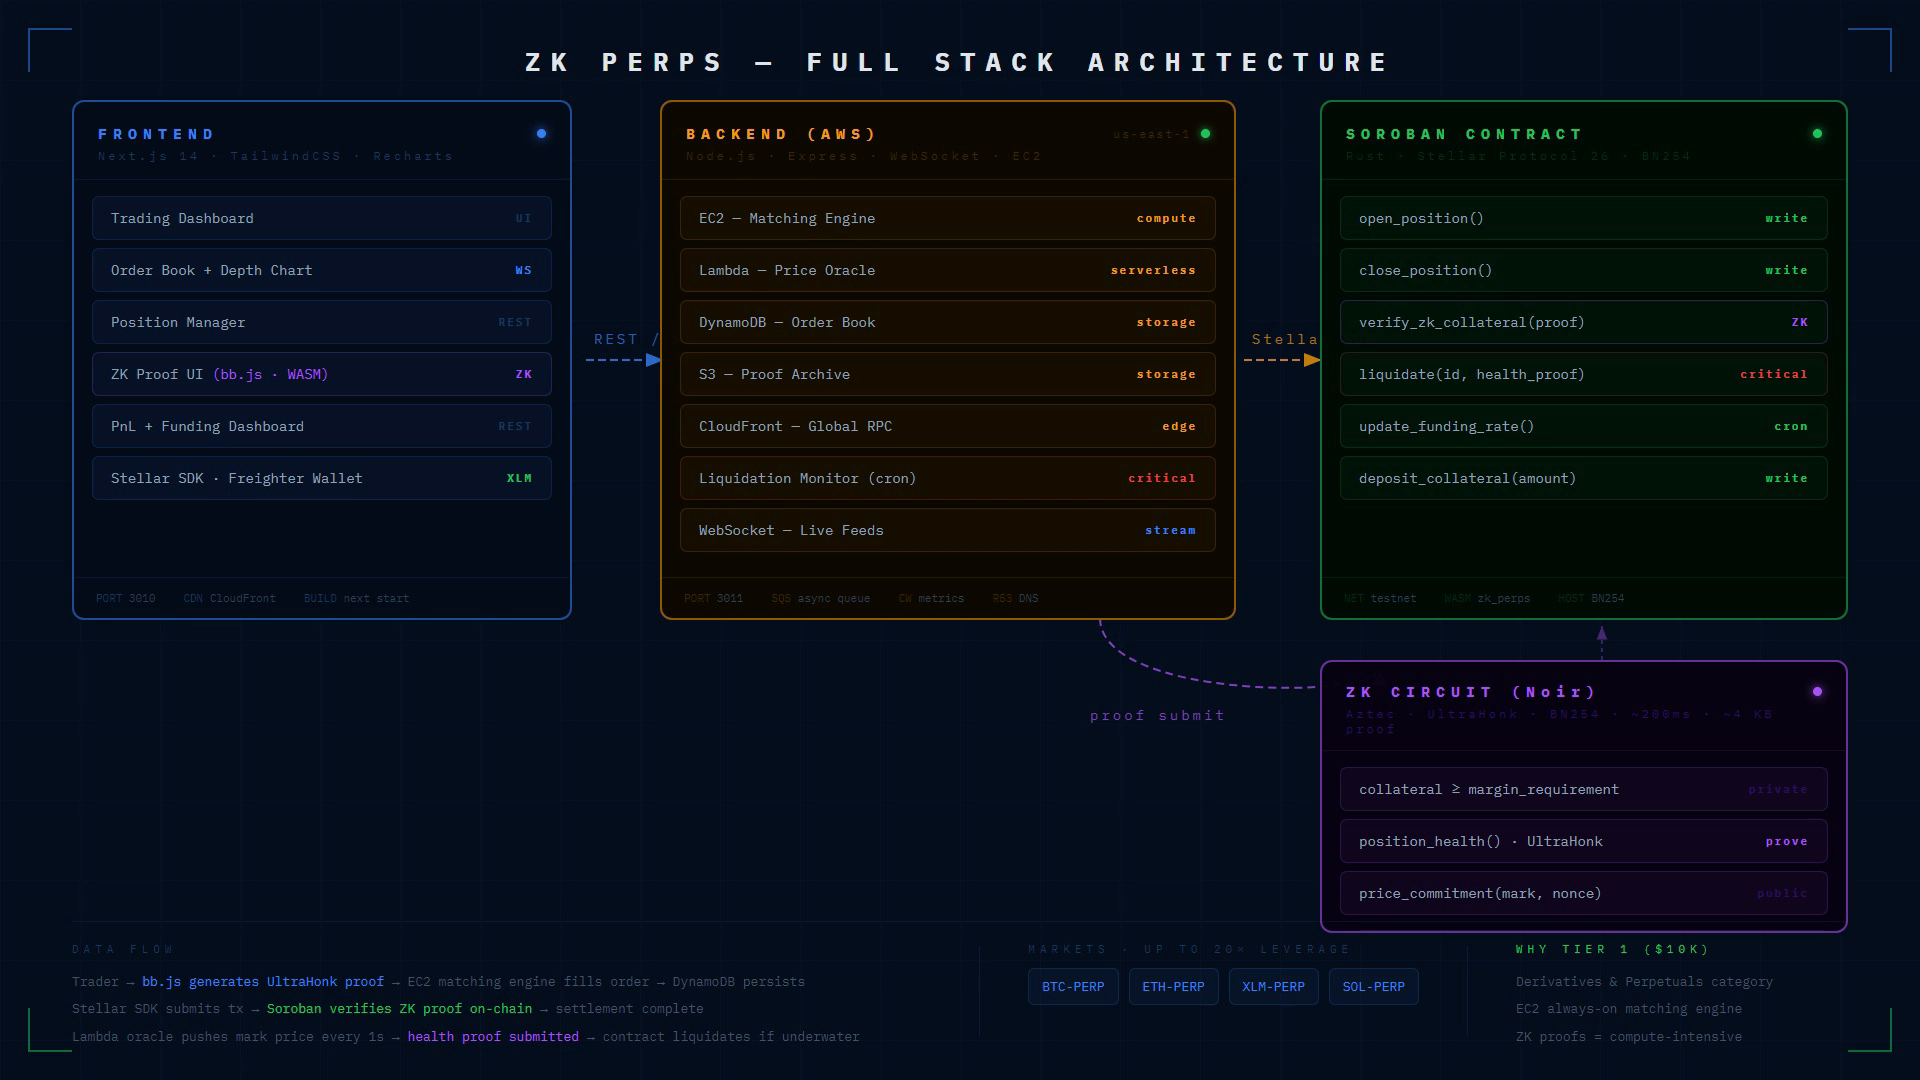
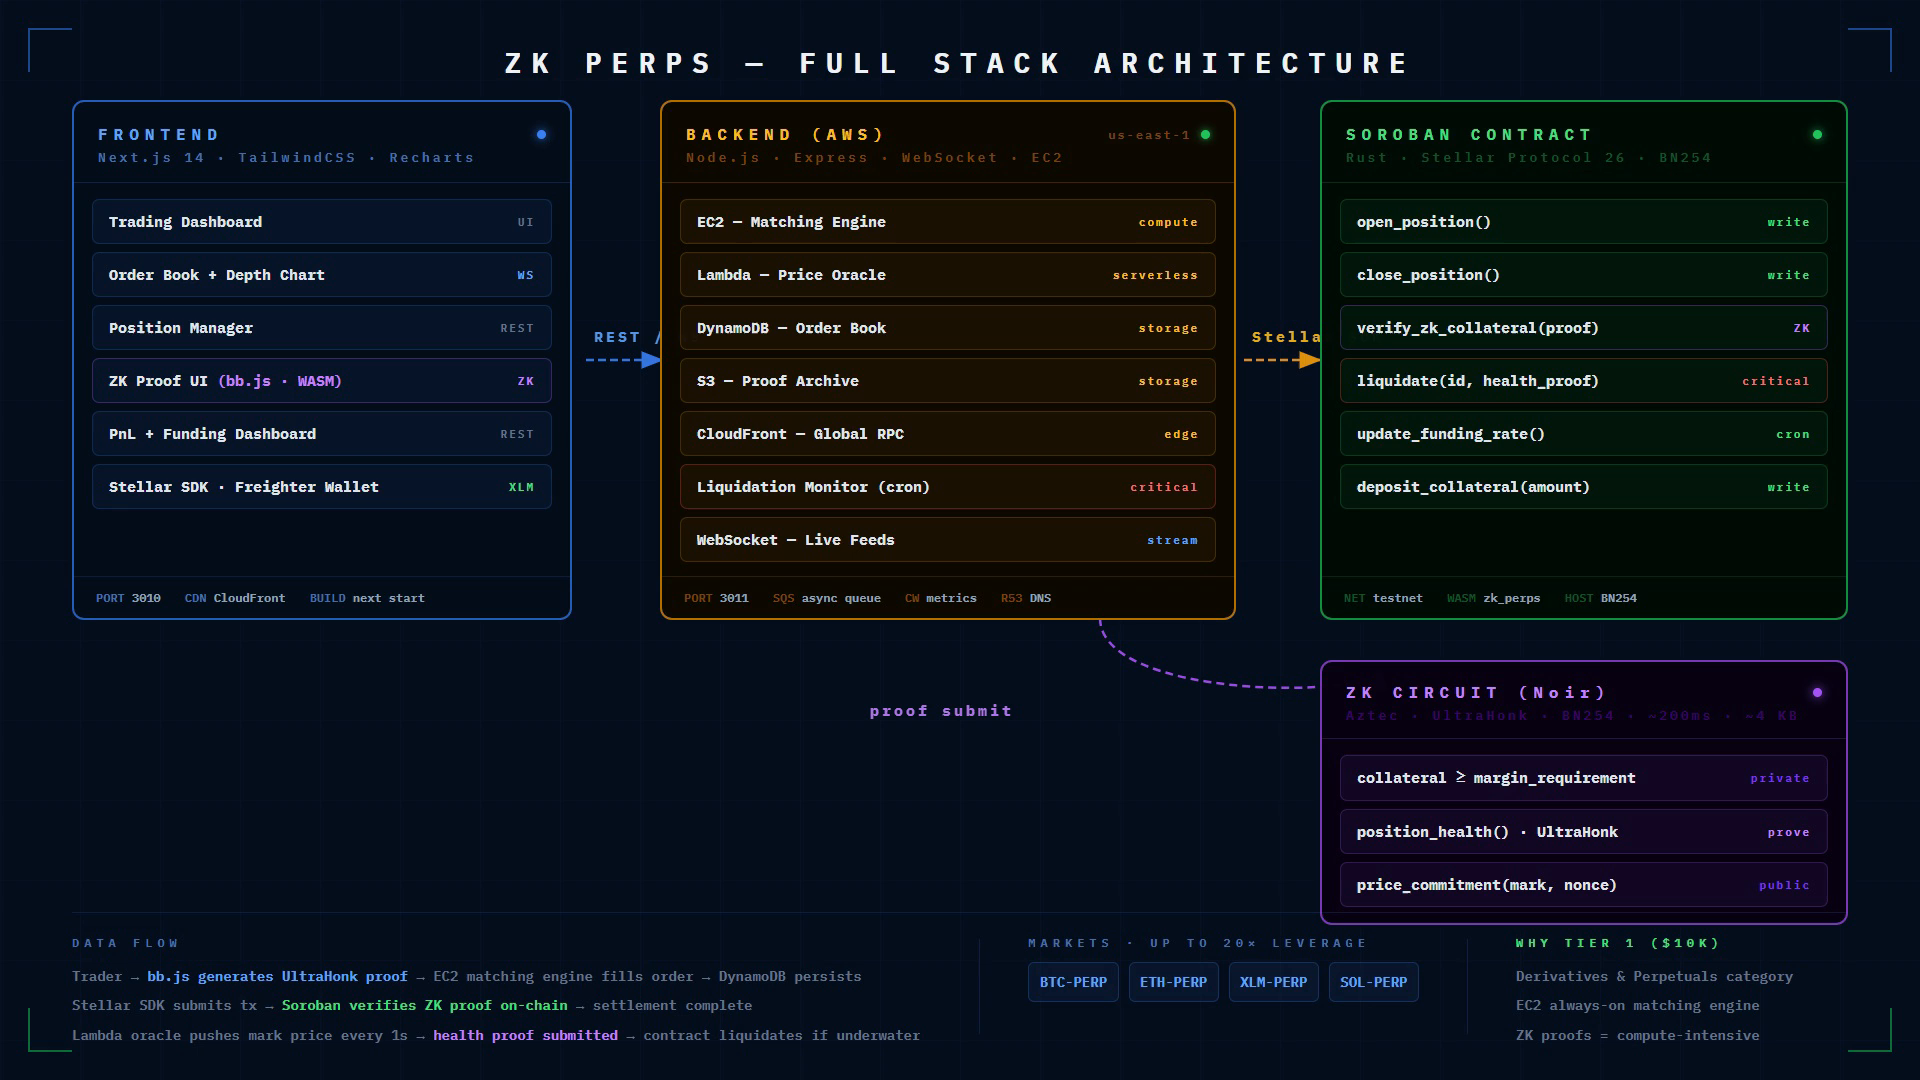
Improve architecture diagram text contrast and weight

diff --git a/docs/index.html b/docs/index.html
@@ -6,8 +6,6 @@
 <style>
 *{margin:0;padding:0;box-sizing:border-box}
 html,body{width:1920px;height:1080px;overflow:hidden;background:#07101e;font-family:'IBM Plex Mono',monospace}
-.row{display:flex;align-items:center;justify-content:space-between;padding:12px 18px;border-radius:7px;margin-bottom:8px}
-.tag{font-size:11px;letter-spacing:2px;font-weight:700}
 </style>
 </head>
 <body>
@@ -26,9 +24,9 @@ html,body{width:1920px;height:1080px;overflow:hidden;background:#07101e;font-fam
 <div style="position:absolute;bottom:28px;right:28px;width:44px;height:44px;border-bottom:2px solid rgba(34,197,94,0.5);border-right:2px solid rgba(34,197,94,0.5)"></div>
 
 <!-- title -->
-<div style="position:absolute;top:44px;left:0;right:0;text-align:center;font-size:26px;font-weight:700;color:#e2e8f0;letter-spacing:10px">ZK PERPS — FULL STACK ARCHITECTURE</div>
+<div style="position:absolute;top:44px;left:0;right:0;text-align:center;font-size:28px;font-weight:700;color:#f1f5f9;letter-spacing:10px">ZK PERPS — FULL STACK ARCHITECTURE</div>
 
-<!-- ─── SVG ARROWS ─── -->
+<!-- SVG ARROWS -->
 <svg style="position:absolute;top:0;left:0;width:1920px;height:1080px;pointer-events:none" viewBox="0 0 1920 1080">
   <defs>
     <marker id="mb" markerWidth="9" markerHeight="7" refX="9" refY="3.5" orient="auto"><polygon points="0 0,9 3.5,0 7" fill="#3b82f6"/></marker>
@@ -36,223 +34,213 @@ html,body{width:1920px;height:1080px;overflow:hidden;background:#07101e;font-fam
     <marker id="mp" markerWidth="9" markerHeight="7" refX="9" refY="3.5" orient="auto"><polygon points="0 0,9 3.5,0 7" fill="#a855f7"/></marker>
   </defs>
   <!-- FE → BE -->
-  <line x1="586" y1="360" x2="664" y2="360" stroke="#3b82f6" stroke-width="2" marker-end="url(#mb)" stroke-dasharray="8,4" opacity="0.8"/>
-  <text x="594" y="344" font-family="IBM Plex Mono" font-size="14" fill="#3b82f6" opacity="0.7" letter-spacing="3">REST / WS</text>
+  <line x1="586" y1="360" x2="664" y2="360" stroke="#3b82f6" stroke-width="2.5" marker-end="url(#mb)" stroke-dasharray="8,4" opacity="0.9"/>
+  <text x="594" y="342" font-family="IBM Plex Mono" font-size="15" font-weight="700" fill="#60a5fa" opacity="0.9" letter-spacing="3">REST / WS</text>
   <!-- BE → SC -->
-  <line x1="1244" y1="360" x2="1322" y2="360" stroke="#f59e0b" stroke-width="2" marker-end="url(#mo)" stroke-dasharray="8,4" opacity="0.8"/>
-  <text x="1252" y="344" font-family="IBM Plex Mono" font-size="14" fill="#f59e0b" opacity="0.7" letter-spacing="3">Stellar SDK</text>
-  <!-- BE → ZK diagonal -->
-  <path d="M 1100 618 C 1100 700, 1380 700, 1380 668" stroke="#a855f7" stroke-width="2" fill="none" marker-end="url(#mp)" stroke-dasharray="8,5" opacity="0.75"/>
-  <text x="1090" y="720" font-family="IBM Plex Mono" font-size="14" fill="#a855f7" opacity="0.75" letter-spacing="3">proof submit</text>
-  <!-- ZK → SC upward connection line -->
-  <line x1="1602" y1="660" x2="1602" y2="626" stroke="#a855f7" stroke-width="1.5" marker-end="url(#mp)" stroke-dasharray="4,4" opacity="0.4"/>
+  <line x1="1244" y1="360" x2="1322" y2="360" stroke="#f59e0b" stroke-width="2.5" marker-end="url(#mo)" stroke-dasharray="8,4" opacity="0.9"/>
+  <text x="1252" y="342" font-family="IBM Plex Mono" font-size="15" font-weight="700" fill="#fbbf24" opacity="0.9" letter-spacing="3">Stellar SDK</text>
+  <!-- BE → ZK -->
+  <path d="M 1100 618 C 1100 700, 1380 700, 1380 668" stroke="#a855f7" stroke-width="2.5" fill="none" marker-end="url(#mp)" stroke-dasharray="8,5" opacity="0.9"/>
+  <text x="870" y="716" font-family="IBM Plex Mono" font-size="15" font-weight="700" fill="#c084fc" opacity="0.9" letter-spacing="3">proof submit</text>
 </svg>
 
-<!-- ─── FRONTEND BOX — top:100 height:520 ─── -->
+<!-- ─── FRONTEND BOX ─── -->
 <div style="position:absolute;top:100px;left:72px;width:500px;height:520px;
-  border:2px solid rgba(59,130,246,0.55);border-radius:12px;
-  background:rgba(6,14,28,0.96)">
-  <!-- header -->
-  <div style="padding:22px 24px 16px;border-bottom:1px solid rgba(59,130,246,0.12)">
+  border:2px solid rgba(59,130,246,0.7);border-radius:12px;
+  background:rgba(6,14,28,0.97)">
+  <div style="padding:22px 24px 16px;border-bottom:1px solid rgba(59,130,246,0.2)">
     <div style="display:flex;align-items:center;justify-content:space-between">
-      <span style="font-size:15px;font-weight:700;color:#3b82f6;letter-spacing:6px">FRONTEND</span>
+      <span style="font-size:16px;font-weight:700;color:#60a5fa;letter-spacing:6px">FRONTEND</span>
       <span style="width:9px;height:9px;border-radius:50%;background:#3b82f6;box-shadow:0 0 10px #3b82f6;display:block"></span>
     </div>
-    <div style="font-size:12px;color:#1e3a5f;letter-spacing:3px;margin-top:5px">Next.js 14 · TailwindCSS · Recharts</div>
+    <div style="font-size:13px;color:#4a6fa5;letter-spacing:3px;margin-top:5px;font-weight:700">Next.js 14 · TailwindCSS · Recharts</div>
   </div>
-  <!-- rows -->
   <div style="padding:16px 18px">
-    <div class="row" style="background:rgba(59,130,246,0.05);border:1px solid rgba(59,130,246,0.15)">
-      <span style="font-size:14px;color:#94a3b8">Trading Dashboard</span>
-      <span class="tag" style="color:#1e3a5f">UI</span>
+    <div style="display:flex;align-items:center;justify-content:space-between;padding:12px 16px;background:rgba(59,130,246,0.07);border:1px solid rgba(59,130,246,0.2);border-radius:7px;margin-bottom:8px">
+      <span style="font-size:15px;font-weight:700;color:#e2e8f0">Trading Dashboard</span>
+      <span style="font-size:11px;font-weight:700;letter-spacing:2px;color:#64748b">UI</span>
     </div>
-    <div class="row" style="background:rgba(59,130,246,0.05);border:1px solid rgba(59,130,246,0.15)">
-      <span style="font-size:14px;color:#94a3b8">Order Book + Depth Chart</span>
-      <span class="tag" style="color:#3b82f6">WS</span>
+    <div style="display:flex;align-items:center;justify-content:space-between;padding:12px 16px;background:rgba(59,130,246,0.07);border:1px solid rgba(59,130,246,0.2);border-radius:7px;margin-bottom:8px">
+      <span style="font-size:15px;font-weight:700;color:#e2e8f0">Order Book + Depth Chart</span>
+      <span style="font-size:11px;font-weight:700;letter-spacing:2px;color:#60a5fa">WS</span>
     </div>
-    <div class="row" style="background:rgba(59,130,246,0.05);border:1px solid rgba(59,130,246,0.15)">
-      <span style="font-size:14px;color:#94a3b8">Position Manager</span>
-      <span class="tag" style="color:#1e3a5f">REST</span>
+    <div style="display:flex;align-items:center;justify-content:space-between;padding:12px 16px;background:rgba(59,130,246,0.07);border:1px solid rgba(59,130,246,0.2);border-radius:7px;margin-bottom:8px">
+      <span style="font-size:15px;font-weight:700;color:#e2e8f0">Position Manager</span>
+      <span style="font-size:11px;font-weight:700;letter-spacing:2px;color:#64748b">REST</span>
     </div>
-    <div class="row" style="background:rgba(59,130,246,0.05);border:1px solid rgba(168,85,247,0.22)">
-      <span style="font-size:14px;color:#94a3b8">ZK Proof UI <span style="color:#a855f7">(bb.js · WASM)</span></span>
-      <span class="tag" style="color:#a855f7">ZK</span>
+    <div style="display:flex;align-items:center;justify-content:space-between;padding:12px 16px;background:rgba(59,130,246,0.07);border:1px solid rgba(168,85,247,0.3);border-radius:7px;margin-bottom:8px">
+      <span style="font-size:15px;font-weight:700;color:#e2e8f0">ZK Proof UI <span style="color:#c084fc">(bb.js · WASM)</span></span>
+      <span style="font-size:11px;font-weight:700;letter-spacing:2px;color:#c084fc">ZK</span>
     </div>
-    <div class="row" style="background:rgba(59,130,246,0.05);border:1px solid rgba(59,130,246,0.15)">
-      <span style="font-size:14px;color:#94a3b8">PnL + Funding Dashboard</span>
-      <span class="tag" style="color:#1e3a5f">REST</span>
+    <div style="display:flex;align-items:center;justify-content:space-between;padding:12px 16px;background:rgba(59,130,246,0.07);border:1px solid rgba(59,130,246,0.2);border-radius:7px;margin-bottom:8px">
+      <span style="font-size:15px;font-weight:700;color:#e2e8f0">PnL + Funding Dashboard</span>
+      <span style="font-size:11px;font-weight:700;letter-spacing:2px;color:#64748b">REST</span>
     </div>
-    <div class="row" style="background:rgba(59,130,246,0.05);border:1px solid rgba(59,130,246,0.15)">
-      <span style="font-size:14px;color:#94a3b8">Stellar SDK · Freighter Wallet</span>
-      <span class="tag" style="color:#22c55e">XLM</span>
+    <div style="display:flex;align-items:center;justify-content:space-between;padding:12px 16px;background:rgba(59,130,246,0.07);border:1px solid rgba(59,130,246,0.2);border-radius:7px">
+      <span style="font-size:15px;font-weight:700;color:#e2e8f0">Stellar SDK · Freighter Wallet</span>
+      <span style="font-size:11px;font-weight:700;letter-spacing:2px;color:#4ade80">XLM</span>
     </div>
   </div>
-  <!-- footer -->
-  <div style="position:absolute;bottom:0;left:0;right:0;padding:13px 22px;border-top:1px solid rgba(59,130,246,0.1);border-radius:0 0 10px 10px;display:flex;gap:28px">
-    <span style="font-size:11px;color:#1e3a5f">PORT <span style="color:#334155">3010</span></span>
-    <span style="font-size:11px;color:#1e3a5f">CDN <span style="color:#334155">CloudFront</span></span>
-    <span style="font-size:11px;color:#1e3a5f">BUILD <span style="color:#334155">next start</span></span>
+  <div style="position:absolute;bottom:0;left:0;right:0;padding:13px 22px;border-top:1px solid rgba(59,130,246,0.15);border-radius:0 0 10px 10px;display:flex;gap:24px">
+    <span style="font-size:12px;font-weight:700;color:#4a6fa5">PORT <span style="color:#94a3b8">3010</span></span>
+    <span style="font-size:12px;font-weight:700;color:#4a6fa5">CDN <span style="color:#94a3b8">CloudFront</span></span>
+    <span style="font-size:12px;font-weight:700;color:#4a6fa5">BUILD <span style="color:#94a3b8">next start</span></span>
   </div>
 </div>
 
-<!-- ─── BACKEND (AWS) BOX — top:100 height:520 ─── -->
+<!-- ─── BACKEND (AWS) BOX ─── -->
 <div style="position:absolute;top:100px;left:660px;width:576px;height:520px;
-  border:2px solid rgba(245,158,11,0.55);border-radius:12px;
-  background:rgba(16,10,2,0.96)">
-  <div style="padding:22px 24px 16px;border-bottom:1px solid rgba(245,158,11,0.12)">
+  border:2px solid rgba(245,158,11,0.7);border-radius:12px;
+  background:rgba(16,10,2,0.97)">
+  <div style="padding:22px 24px 16px;border-bottom:1px solid rgba(245,158,11,0.2)">
     <div style="display:flex;align-items:center;justify-content:space-between">
-      <span style="font-size:15px;font-weight:700;color:#f59e0b;letter-spacing:6px">BACKEND (AWS)</span>
+      <span style="font-size:16px;font-weight:700;color:#fbbf24;letter-spacing:6px">BACKEND (AWS)</span>
       <div style="display:flex;align-items:center;gap:10px">
-        <span style="font-size:11px;color:#3d2c00;letter-spacing:2px">us-east-1</span>
+        <span style="font-size:12px;font-weight:700;color:#78450a;letter-spacing:2px">us-east-1</span>
         <span style="width:9px;height:9px;border-radius:50%;background:#22c55e;box-shadow:0 0 8px #22c55e;display:block"></span>
       </div>
     </div>
-    <div style="font-size:12px;color:#3d2c00;letter-spacing:3px;margin-top:5px">Node.js · Express · WebSocket · EC2</div>
+    <div style="font-size:13px;font-weight:700;color:#78450a;letter-spacing:3px;margin-top:5px">Node.js · Express · WebSocket · EC2</div>
   </div>
   <div style="padding:16px 18px">
-    <div class="row" style="background:rgba(245,158,11,0.04);border:1px solid rgba(245,158,11,0.15)">
-      <span style="font-size:14px;color:#94a3b8">EC2 — Matching Engine</span>
-      <span class="tag" style="color:#f59e0b">compute</span>
+    <div style="display:flex;align-items:center;justify-content:space-between;padding:12px 16px;background:rgba(245,158,11,0.06);border:1px solid rgba(245,158,11,0.2);border-radius:7px;margin-bottom:8px">
+      <span style="font-size:15px;font-weight:700;color:#e2e8f0">EC2 — Matching Engine</span>
+      <span style="font-size:11px;font-weight:700;letter-spacing:2px;color:#fbbf24">compute</span>
     </div>
-    <div class="row" style="background:rgba(245,158,11,0.04);border:1px solid rgba(245,158,11,0.15)">
-      <span style="font-size:14px;color:#94a3b8">Lambda — Price Oracle</span>
-      <span class="tag" style="color:#f59e0b">serverless</span>
+    <div style="display:flex;align-items:center;justify-content:space-between;padding:12px 16px;background:rgba(245,158,11,0.06);border:1px solid rgba(245,158,11,0.2);border-radius:7px;margin-bottom:8px">
+      <span style="font-size:15px;font-weight:700;color:#e2e8f0">Lambda — Price Oracle</span>
+      <span style="font-size:11px;font-weight:700;letter-spacing:2px;color:#fbbf24">serverless</span>
     </div>
-    <div class="row" style="background:rgba(245,158,11,0.04);border:1px solid rgba(245,158,11,0.15)">
-      <span style="font-size:14px;color:#94a3b8">DynamoDB — Order Book</span>
-      <span class="tag" style="color:#f59e0b">storage</span>
+    <div style="display:flex;align-items:center;justify-content:space-between;padding:12px 16px;background:rgba(245,158,11,0.06);border:1px solid rgba(245,158,11,0.2);border-radius:7px;margin-bottom:8px">
+      <span style="font-size:15px;font-weight:700;color:#e2e8f0">DynamoDB — Order Book</span>
+      <span style="font-size:11px;font-weight:700;letter-spacing:2px;color:#fbbf24">storage</span>
     </div>
-    <div class="row" style="background:rgba(245,158,11,0.04);border:1px solid rgba(245,158,11,0.15)">
-      <span style="font-size:14px;color:#94a3b8">S3 — Proof Archive</span>
-      <span class="tag" style="color:#f59e0b">storage</span>
+    <div style="display:flex;align-items:center;justify-content:space-between;padding:12px 16px;background:rgba(245,158,11,0.06);border:1px solid rgba(245,158,11,0.2);border-radius:7px;margin-bottom:8px">
+      <span style="font-size:15px;font-weight:700;color:#e2e8f0">S3 — Proof Archive</span>
+      <span style="font-size:11px;font-weight:700;letter-spacing:2px;color:#fbbf24">storage</span>
     </div>
-    <div class="row" style="background:rgba(245,158,11,0.04);border:1px solid rgba(245,158,11,0.15)">
-      <span style="font-size:14px;color:#94a3b8">CloudFront — Global RPC</span>
-      <span class="tag" style="color:#f59e0b">edge</span>
+    <div style="display:flex;align-items:center;justify-content:space-between;padding:12px 16px;background:rgba(245,158,11,0.06);border:1px solid rgba(245,158,11,0.2);border-radius:7px;margin-bottom:8px">
+      <span style="font-size:15px;font-weight:700;color:#e2e8f0">CloudFront — Global RPC</span>
+      <span style="font-size:11px;font-weight:700;letter-spacing:2px;color:#fbbf24">edge</span>
     </div>
-    <div class="row" style="background:rgba(245,158,11,0.04);border:1px solid rgba(239,68,68,0.2)">
-      <span style="font-size:14px;color:#94a3b8">Liquidation Monitor (cron)</span>
-      <span class="tag" style="color:#ef4444">critical</span>
+    <div style="display:flex;align-items:center;justify-content:space-between;padding:12px 16px;background:rgba(245,158,11,0.06);border:1px solid rgba(239,68,68,0.3);border-radius:7px;margin-bottom:8px">
+      <span style="font-size:15px;font-weight:700;color:#e2e8f0">Liquidation Monitor (cron)</span>
+      <span style="font-size:11px;font-weight:700;letter-spacing:2px;color:#f87171">critical</span>
     </div>
-    <div class="row" style="background:rgba(245,158,11,0.04);border:1px solid rgba(245,158,11,0.15)">
-      <span style="font-size:14px;color:#94a3b8">WebSocket — Live Feeds</span>
-      <span class="tag" style="color:#3b82f6">stream</span>
+    <div style="display:flex;align-items:center;justify-content:space-between;padding:12px 16px;background:rgba(245,158,11,0.06);border:1px solid rgba(245,158,11,0.2);border-radius:7px">
+      <span style="font-size:15px;font-weight:700;color:#e2e8f0">WebSocket — Live Feeds</span>
+      <span style="font-size:11px;font-weight:700;letter-spacing:2px;color:#60a5fa">stream</span>
     </div>
   </div>
-  <div style="position:absolute;bottom:0;left:0;right:0;padding:13px 22px;border-top:1px solid rgba(245,158,11,0.1);border-radius:0 0 10px 10px;display:flex;gap:28px">
-    <span style="font-size:11px;color:#3d2c00">PORT <span style="color:#334155">3011</span></span>
-    <span style="font-size:11px;color:#3d2c00">SQS <span style="color:#334155">async queue</span></span>
-    <span style="font-size:11px;color:#3d2c00">CW <span style="color:#334155">metrics</span></span>
-    <span style="font-size:11px;color:#3d2c00">R53 <span style="color:#334155">DNS</span></span>
+  <div style="position:absolute;bottom:0;left:0;right:0;padding:13px 22px;border-top:1px solid rgba(245,158,11,0.15);border-radius:0 0 10px 10px;display:flex;gap:24px">
+    <span style="font-size:12px;font-weight:700;color:#78450a">PORT <span style="color:#94a3b8">3011</span></span>
+    <span style="font-size:12px;font-weight:700;color:#78450a">SQS <span style="color:#94a3b8">async queue</span></span>
+    <span style="font-size:12px;font-weight:700;color:#78450a">CW <span style="color:#94a3b8">metrics</span></span>
+    <span style="font-size:12px;font-weight:700;color:#78450a">R53 <span style="color:#94a3b8">DNS</span></span>
   </div>
 </div>
 
-<!-- ─── SOROBAN CONTRACT BOX — top:100 height:520 ─── -->
+<!-- ─── SOROBAN CONTRACT BOX ─── -->
 <div style="position:absolute;top:100px;left:1320px;width:528px;height:520px;
-  border:2px solid rgba(34,197,94,0.55);border-radius:12px;
-  background:rgba(2,12,6,0.96)">
-  <div style="padding:22px 24px 16px;border-bottom:1px solid rgba(34,197,94,0.12)">
+  border:2px solid rgba(34,197,94,0.7);border-radius:12px;
+  background:rgba(2,12,6,0.97)">
+  <div style="padding:22px 24px 16px;border-bottom:1px solid rgba(34,197,94,0.2)">
     <div style="display:flex;align-items:center;justify-content:space-between">
-      <span style="font-size:15px;font-weight:700;color:#22c55e;letter-spacing:6px">SOROBAN CONTRACT</span>
+      <span style="font-size:16px;font-weight:700;color:#4ade80;letter-spacing:6px">SOROBAN CONTRACT</span>
       <span style="width:9px;height:9px;border-radius:50%;background:#22c55e;box-shadow:0 0 10px #22c55e;display:block"></span>
     </div>
-    <div style="font-size:12px;color:#052e16;letter-spacing:3px;margin-top:5px">Rust · Stellar Protocol 26 · BN254</div>
+    <div style="font-size:13px;font-weight:700;color:#14532d;letter-spacing:3px;margin-top:5px">Rust · Stellar Protocol 26 · BN254</div>
   </div>
   <div style="padding:16px 18px">
-    <div class="row" style="background:rgba(34,197,94,0.04);border:1px solid rgba(34,197,94,0.15)">
-      <span style="font-size:14px;color:#94a3b8">open_position()</span>
-      <span class="tag" style="color:#22c55e">write</span>
+    <div style="display:flex;align-items:center;justify-content:space-between;padding:12px 16px;background:rgba(34,197,94,0.06);border:1px solid rgba(34,197,94,0.2);border-radius:7px;margin-bottom:8px">
+      <span style="font-size:15px;font-weight:700;color:#e2e8f0">open_position()</span>
+      <span style="font-size:11px;font-weight:700;letter-spacing:2px;color:#4ade80">write</span>
     </div>
-    <div class="row" style="background:rgba(34,197,94,0.04);border:1px solid rgba(34,197,94,0.15)">
-      <span style="font-size:14px;color:#94a3b8">close_position()</span>
-      <span class="tag" style="color:#22c55e">write</span>
+    <div style="display:flex;align-items:center;justify-content:space-between;padding:12px 16px;background:rgba(34,197,94,0.06);border:1px solid rgba(34,197,94,0.2);border-radius:7px;margin-bottom:8px">
+      <span style="font-size:15px;font-weight:700;color:#e2e8f0">close_position()</span>
+      <span style="font-size:11px;font-weight:700;letter-spacing:2px;color:#4ade80">write</span>
     </div>
-    <div class="row" style="background:rgba(34,197,94,0.04);border:1px solid rgba(168,85,247,0.25)">
-      <span style="font-size:14px;color:#94a3b8">verify_zk_collateral(proof)</span>
-      <span class="tag" style="color:#a855f7">ZK</span>
+    <div style="display:flex;align-items:center;justify-content:space-between;padding:12px 16px;background:rgba(34,197,94,0.06);border:1px solid rgba(168,85,247,0.3);border-radius:7px;margin-bottom:8px">
+      <span style="font-size:15px;font-weight:700;color:#e2e8f0">verify_zk_collateral(proof)</span>
+      <span style="font-size:11px;font-weight:700;letter-spacing:2px;color:#c084fc">ZK</span>
     </div>
-    <div class="row" style="background:rgba(34,197,94,0.04);border:1px solid rgba(239,68,68,0.2)">
-      <span style="font-size:14px;color:#94a3b8">liquidate(id, health_proof)</span>
-      <span class="tag" style="color:#ef4444">critical</span>
+    <div style="display:flex;align-items:center;justify-content:space-between;padding:12px 16px;background:rgba(34,197,94,0.06);border:1px solid rgba(239,68,68,0.3);border-radius:7px;margin-bottom:8px">
+      <span style="font-size:15px;font-weight:700;color:#e2e8f0">liquidate(id, health_proof)</span>
+      <span style="font-size:11px;font-weight:700;letter-spacing:2px;color:#f87171">critical</span>
     </div>
-    <div class="row" style="background:rgba(34,197,94,0.04);border:1px solid rgba(34,197,94,0.15)">
-      <span style="font-size:14px;color:#94a3b8">update_funding_rate()</span>
-      <span class="tag" style="color:#22c55e">cron</span>
+    <div style="display:flex;align-items:center;justify-content:space-between;padding:12px 16px;background:rgba(34,197,94,0.06);border:1px solid rgba(34,197,94,0.2);border-radius:7px;margin-bottom:8px">
+      <span style="font-size:15px;font-weight:700;color:#e2e8f0">update_funding_rate()</span>
+      <span style="font-size:11px;font-weight:700;letter-spacing:2px;color:#4ade80">cron</span>
     </div>
-    <div class="row" style="background:rgba(34,197,94,0.04);border:1px solid rgba(34,197,94,0.15)">
-      <span style="font-size:14px;color:#94a3b8">deposit_collateral(amount)</span>
-      <span class="tag" style="color:#22c55e">write</span>
+    <div style="display:flex;align-items:center;justify-content:space-between;padding:12px 16px;background:rgba(34,197,94,0.06);border:1px solid rgba(34,197,94,0.2);border-radius:7px">
+      <span style="font-size:15px;font-weight:700;color:#e2e8f0">deposit_collateral(amount)</span>
+      <span style="font-size:11px;font-weight:700;letter-spacing:2px;color:#4ade80">write</span>
     </div>
   </div>
-  <div style="position:absolute;bottom:0;left:0;right:0;padding:13px 22px;border-top:1px solid rgba(34,197,94,0.1);border-radius:0 0 10px 10px;display:flex;gap:28px">
-    <span style="font-size:11px;color:#052e16">NET <span style="color:#334155">testnet</span></span>
-    <span style="font-size:11px;color:#052e16">WASM <span style="color:#334155">zk_perps</span></span>
-    <span style="font-size:11px;color:#052e16">HOST <span style="color:#334155">BN254</span></span>
+  <div style="position:absolute;bottom:0;left:0;right:0;padding:13px 22px;border-top:1px solid rgba(34,197,94,0.15);border-radius:0 0 10px 10px;display:flex;gap:24px">
+    <span style="font-size:12px;font-weight:700;color:#14532d">NET <span style="color:#94a3b8">testnet</span></span>
+    <span style="font-size:12px;font-weight:700;color:#14532d">WASM <span style="color:#94a3b8">zk_perps</span></span>
+    <span style="font-size:12px;font-weight:700;color:#14532d">HOST <span style="color:#94a3b8">BN254</span></span>
   </div>
 </div>
 
-<!-- ─── ZK CIRCUIT BOX — top:660 right-column ─── -->
+<!-- ─── ZK CIRCUIT BOX ─── -->
 <div style="position:absolute;top:660px;left:1320px;width:528px;
-  border:2px solid rgba(168,85,247,0.6);border-radius:12px;
-  background:rgba(10,4,20,0.97)">
-  <div style="padding:20px 24px 14px;border-bottom:1px solid rgba(168,85,247,0.12)">
+  border:2px solid rgba(168,85,247,0.7);border-radius:12px;
+  background:rgba(10,4,20,0.98)">
+  <div style="padding:20px 24px 14px;border-bottom:1px solid rgba(168,85,247,0.2)">
     <div style="display:flex;align-items:center;justify-content:space-between">
-      <span style="font-size:15px;font-weight:700;color:#a855f7;letter-spacing:6px">ZK CIRCUIT (Noir)</span>
+      <span style="font-size:16px;font-weight:700;color:#c084fc;letter-spacing:6px">ZK CIRCUIT (Noir)</span>
       <span style="width:9px;height:9px;border-radius:50%;background:#a855f7;box-shadow:0 0 10px #a855f7;display:block"></span>
     </div>
-    <div style="font-size:12px;color:#2e1065;letter-spacing:3px;margin-top:5px">Aztec · UltraHonk · BN254 · ~200ms · ~4 KB proof</div>
+    <div style="font-size:13px;font-weight:700;color:#3b0764;letter-spacing:3px;margin-top:5px">Aztec · UltraHonk · BN254 · ~200ms · ~4 KB</div>
   </div>
   <div style="padding:16px 18px">
-    <div class="row" style="background:rgba(168,85,247,0.05);border:1px solid rgba(168,85,247,0.18)">
-      <span style="font-size:14px;color:#94a3b8">collateral ≥ margin_requirement</span>
-      <span class="tag" style="color:#2e1065">private</span>
+    <div style="display:flex;align-items:center;justify-content:space-between;padding:12px 16px;background:rgba(168,85,247,0.07);border:1px solid rgba(168,85,247,0.22);border-radius:7px;margin-bottom:8px">
+      <span style="font-size:15px;font-weight:700;color:#e2e8f0">collateral ≥ margin_requirement</span>
+      <span style="font-size:11px;font-weight:700;letter-spacing:2px;color:#7c3aed">private</span>
     </div>
-    <div class="row" style="background:rgba(168,85,247,0.05);border:1px solid rgba(168,85,247,0.18)">
-      <span style="font-size:14px;color:#94a3b8">position_health() · UltraHonk</span>
-      <span class="tag" style="color:#a855f7">prove</span>
+    <div style="display:flex;align-items:center;justify-content:space-between;padding:12px 16px;background:rgba(168,85,247,0.07);border:1px solid rgba(168,85,247,0.22);border-radius:7px;margin-bottom:8px">
+      <span style="font-size:15px;font-weight:700;color:#e2e8f0">position_health() · UltraHonk</span>
+      <span style="font-size:11px;font-weight:700;letter-spacing:2px;color:#c084fc">prove</span>
     </div>
-    <div class="row" style="background:rgba(168,85,247,0.05);border:1px solid rgba(168,85,247,0.18);margin-bottom:0">
-      <span style="font-size:14px;color:#94a3b8">price_commitment(mark, nonce)</span>
-      <span class="tag" style="color:#2e1065">public</span>
+    <div style="display:flex;align-items:center;justify-content:space-between;padding:12px 16px;background:rgba(168,85,247,0.07);border:1px solid rgba(168,85,247,0.22);border-radius:7px">
+      <span style="font-size:15px;font-weight:700;color:#e2e8f0">price_commitment(mark, nonce)</span>
+      <span style="font-size:11px;font-weight:700;letter-spacing:2px;color:#7c3aed">public</span>
     </div>
   </div>
 </div>
 
 <!-- ─── BOTTOM BAR ─── -->
-<div style="position:absolute;bottom:30px;left:72px;right:72px;border-top:1px solid rgba(59,130,246,0.1);padding-top:20px">
+<div style="position:absolute;bottom:30px;left:72px;right:72px;border-top:1px solid rgba(59,130,246,0.15);padding-top:22px">
   <div style="display:flex;gap:48px;align-items:flex-start">
 
-    <!-- Data flow -->
     <div style="flex:2.2">
-      <div style="font-size:11px;color:#1e3a5f;letter-spacing:5px;margin-bottom:12px">DATA FLOW</div>
-      <div style="font-size:13px;color:#475569;line-height:2.1">
-        Trader → <span style="color:#3b82f6">bb.js generates UltraHonk proof</span> → EC2 matching engine fills order → DynamoDB persists<br/>
-        Stellar SDK submits tx → <span style="color:#22c55e">Soroban verifies ZK proof on-chain</span> → settlement complete<br/>
-        Lambda oracle pushes mark price every 1s → <span style="color:#a855f7">health proof submitted</span> → contract liquidates if underwater
+      <div style="font-size:12px;font-weight:700;color:#4a6fa5;letter-spacing:5px;margin-bottom:12px">DATA FLOW</div>
+      <div style="font-size:14px;font-weight:700;color:#64748b;line-height:2.1">
+        Trader → <span style="color:#60a5fa">bb.js generates UltraHonk proof</span> → EC2 matching engine fills order → DynamoDB persists<br/>
+        Stellar SDK submits tx → <span style="color:#4ade80">Soroban verifies ZK proof on-chain</span> → settlement complete<br/>
+        Lambda oracle pushes mark price every 1s → <span style="color:#c084fc">health proof submitted</span> → contract liquidates if underwater
       </div>
     </div>
 
-    <!-- divider -->
-    <div style="width:1px;height:90px;background:rgba(59,130,246,0.12);margin-top:4px"></div>
+    <div style="width:1px;height:95px;background:rgba(59,130,246,0.15);margin-top:4px"></div>
 
-    <!-- Markets -->
     <div style="flex:1">
-      <div style="font-size:11px;color:#1e3a5f;letter-spacing:5px;margin-bottom:12px">MARKETS · UP TO 20× LEVERAGE</div>
+      <div style="font-size:12px;font-weight:700;color:#4a6fa5;letter-spacing:5px;margin-bottom:12px">MARKETS · UP TO 20× LEVERAGE</div>
       <div style="display:flex;gap:10px">
-        <div style="flex:1;text-align:center;padding:9px 0;background:rgba(59,130,246,0.05);border:1px solid rgba(59,130,246,0.18);border-radius:6px;font-size:13px;color:#3b82f6">BTC-PERP</div>
-        <div style="flex:1;text-align:center;padding:9px 0;background:rgba(59,130,246,0.05);border:1px solid rgba(59,130,246,0.18);border-radius:6px;font-size:13px;color:#3b82f6">ETH-PERP</div>
-        <div style="flex:1;text-align:center;padding:9px 0;background:rgba(59,130,246,0.05);border:1px solid rgba(59,130,246,0.18);border-radius:6px;font-size:13px;color:#3b82f6">XLM-PERP</div>
-        <div style="flex:1;text-align:center;padding:9px 0;background:rgba(59,130,246,0.05);border:1px solid rgba(59,130,246,0.18);border-radius:6px;font-size:13px;color:#3b82f6">SOL-PERP</div>
+        <div style="flex:1;text-align:center;padding:10px 0;background:rgba(59,130,246,0.07);border:1px solid rgba(59,130,246,0.25);border-radius:6px;font-size:14px;font-weight:700;color:#60a5fa">BTC-PERP</div>
+        <div style="flex:1;text-align:center;padding:10px 0;background:rgba(59,130,246,0.07);border:1px solid rgba(59,130,246,0.25);border-radius:6px;font-size:14px;font-weight:700;color:#60a5fa">ETH-PERP</div>
+        <div style="flex:1;text-align:center;padding:10px 0;background:rgba(59,130,246,0.07);border:1px solid rgba(59,130,246,0.25);border-radius:6px;font-size:14px;font-weight:700;color:#60a5fa">XLM-PERP</div>
+        <div style="flex:1;text-align:center;padding:10px 0;background:rgba(59,130,246,0.07);border:1px solid rgba(59,130,246,0.25);border-radius:6px;font-size:14px;font-weight:700;color:#60a5fa">SOL-PERP</div>
       </div>
     </div>
 
-    <!-- divider -->
-    <div style="width:1px;height:90px;background:rgba(59,130,246,0.12);margin-top:4px"></div>
+    <div style="width:1px;height:95px;background:rgba(59,130,246,0.15);margin-top:4px"></div>
 
-    <!-- Why Tier 1 -->
     <div style="flex:0.85">
-      <div style="font-size:11px;color:#22c55e;letter-spacing:5px;margin-bottom:12px">WHY TIER 1 ($10K)</div>
-      <div style="font-size:13px;color:#475569;line-height:2.1">
+      <div style="font-size:12px;font-weight:700;color:#4ade80;letter-spacing:5px;margin-bottom:12px">WHY TIER 1 ($10K)</div>
+      <div style="font-size:14px;font-weight:700;color:#64748b;line-height:2.1">
         Derivatives &amp; Perpetuals category<br/>
         EC2 always-on matching engine<br/>
         ZK proofs = compute-intensive